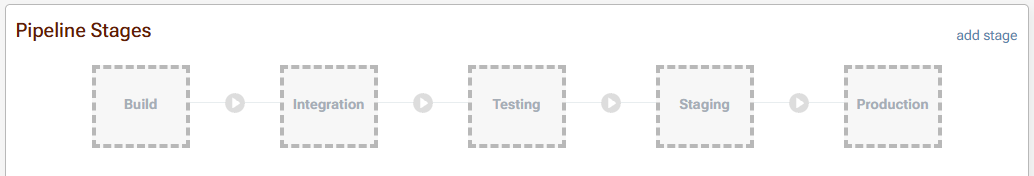
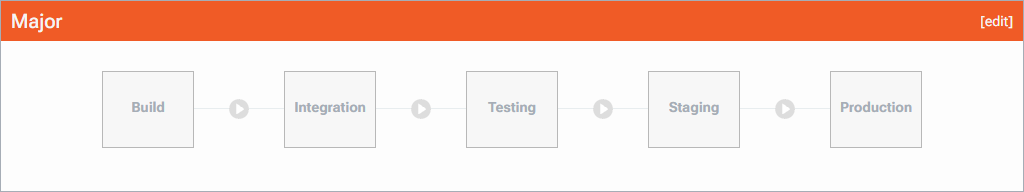
edits made to steps

diff --git a/Content/BuildMaster/modeling-your-applications/buildmaster-releases/howto-multi-cadence.md b/Content/BuildMaster/modeling-your-applications/buildmaster-releases/howto-multi-cadence.md
@@ -92,6 +92,64 @@ At the Testing stage, we recommend adding a prompt that defines whether to enabl
 
 Navigate to your **<span style="color: #FF5733;">Major Release</span>** pipeline, scroll down to Testing, and select "Add an input prompt or constant" under "Variables & Prompts". 
 
+
+## Step 3: Create a Routine Release Pipeline
+In this next step we will create a pipeline that will be used for your **<span style="color: #4CAF50;">Routine Releases</span>**. As routine releases carry low risk and ship on a fixed cadence, their pipelines typically include fewer stages, fewer checks, and a handful of date prompts. Because the cadence is fixed, builds can also have their promotions scheduled to land on the release date.
+
+### Creating The Pipeline
+We recommend keeping **<span style="color: #4CAF50;">Routine Releases</span>** pipelines short: Build, Integration, Testing, and Production. Fewer stages means small changes reach production quickly without waiting on unnecessary checks.
+
+As with creating a Major release pipeline, start by navigating to "Settings" > "Pipelines" then select "Create Pipeline". Then select "Show all" and choose "Main/Release Branch". By default this will already include all stages recommended for routine releases. Select "Create Pipeline".
+
+![](/resources/docs/buildmaster-pipeline-fourstages.png){height="" width="50%"}
+
+### Setting Target Iteration Dates
+To keep routine releases predictable, you can set Target Iteration Dates on a pipeline to define when its releases are meant to go out, setting a fixed cadence for your routine releases (e.g., every two weeks on a Friday). BuildMaster then projects upcoming release dates for you.
+
+To set these up, navigate to your Routine pipeline and then select "edit details" under "Pipeline Details". From here set the target iteration dates (e.g., "7" would set a one week cadence for routine releases):
+
+![](/resources/docs/buildmaster-release-edit-iteration.png){height="" width="50%"}
+
+Once set, BuildMaster automatically projects the upcoming target dates for that pipeline and shows them on the calendar as dotted outlines.
+
+![](/resources/docs/buildmaster-calendar-auto-dates.png){height="" width="50%"}
+
+### Setting Date Prompts
+Routine releases need only a light touch here. We recommend a couple of short prompts, such as a code cutoff 4 days before the target date and a short QA window 3 days before.
+
+To set these up, navigate to your Routine release pipeline, select "Edit Details" under "Pipeline Details", and then select "Manage Date Prompts".
+
+![](/resources/docs/buildmaster-pipeline-manageprompts-2.png){height="" width="50%"}
+
+Then select "Add Date Prompt". Name the date (e.g., "Code Cutoff"), enter how many days before the release target date it will be scheduled as a negative number (e.g., `-3`), and select "Save". Repeat for the QA window, setting it 3 days before with a duration of 2 days.
+
+![](/resources/docs/buildmaster-pipeline-routine-prompts.png){height="" width="50%"}
+
+These will then be pre-populated each time you create a new Routine release.
+
+## Step 4: Configure the Routine Release Pipeline Gating
+Because **<span style="color: #4CAF50;">Routine Releases</span>** ship frequently and carry low risk, their gating should enforce quality without slowing anyone down. We recommend relying on automated gates rather than manual approvals, and adding variable prompts to make quick, repeatable testing easier. This step will cover both.
+
+### Setting Up Automated Gating
+Because routine releases ship frequently, we recommend relying on automated gates rather than manual approvals. Use the same compliance and prerelease dependency checks as the Major pipeline.
+
+To configure these, navigate to your **<span style="color: #4CAF50;">Routine Release</span>** pipeline, scroll down to the Build stage and select "add stage requirement".
+
+![](/resources/docs/buildmaster-pipelines-build-req-add.png){height="" width="50%"}
+
+From here, select "Edit Packages/Dependencies", check both checkboxes and select "Save". This will prevent builds containing packages that break compliance rules or unstable (prerelease) dependencies from moving forward.
+
+![](/resources/docs/buildmaster-pipelines-build-req-added.png){height="" width="50%"}
+
+Finally, make sure you scroll up to the top of the pipeline page and select "Commit Changes".
+
+Unlike the Major pipeline, we haven't added any manual approvals here. Builds that meet these requirements are free to move forward, which keeps your fixed-cadence releases on schedule.
+
+### Creating Variable Prompts
+Variable Prompts can make quick, repeatable testing easier. For example, a prompt at the Testing stage can let the tester choose whether to enable new features after deployment, so the same build can be checked with a feature off and then on without needing a separate build. 
+
+At the Testing stage, we recommend adding a prompt that defines whether to enable new features after deployment, so one build can be tested with a feature off and then on. In addition we'll add a prompt to define whether or not to restart services after deployment.
+
 ![](/resources/docs/buildmaster-pipelines-prompt-add.png){height="" width="50%"}
 
 Then select "Prompt for Input" and name it "Enable New Features After Deployment". This prompt will be set up as a list to create "true" or "false" choices, so select the "Input Options" tab, select the "List" option, as well as selecting "Value is Required" and "Restrict value to items in list". Then enter "true" and "false" as list options.
@@ -109,49 +167,6 @@ Repeat this to create a prompt to define whether or not to restart services afte
 ![](/resources/docs/buildmaster-pipeline-prompts-added.png){height="" width="50%"}
 
 Then, scroll to the top of the pipeline page and select "Commit Changes".
-
-## Step 3: Create a Routine Release Pipeline
-In this next step we will create a pipeline that will be used for your **<span style="color: #4CAF50;">Routine Releases</span>**. As routine releases carry low risk and ship on a fixed cadence, their pipelines typically include fewer stages, fewer checks, and a handful of date prompts. Because the cadence is fixed, builds can also have their promotions scheduled to land on the release date.
-
-### Creating The Pipeline
-We recommend keeping <span style="color: #4CAF50;">Routine Releases</span> pipelines short: Build, Integration, Testing, and Production. Fewer stages means small changes reach production quickly without waiting on unnecessary checks.
-
-As with creating a Major release pipeline, start by navigating to "Settings" > "Pipelines" then select "Create Pipeline". Then select "Show all" and choose "Main/Release Branch". By default this will already include all stages recommended for routine releases. Select "Create Pipeline".
-
-![](){height="" width="50%"} **NEED SS 
-
-### Setting Target iteration Dates
-To keep routine releases predictable, you can set Target Iteration Dates on a pipeline to define when its releases are meant to go out, setting a fixed cadence for your routine releases (e.g., every two weeks on a Friday). BuildMaster then projects upcoming release dates for you.
-
-To set these up, navigate to your Routine pipeline and then select "edit details" under "Pipeline Details". From here set the target iteration dates (e.g., "14" would set a two week cadence for routine releases):
-
-![](/resources/docs/buildmaster-release-edit-iteration.png){height="" width="50%"}
-
-Once set, BuildMaster automatically projects the upcoming target dates for that pipeline and shows them on the calendar as dotted outlines.
-
-![](/resources/docs/buildmaster-calendar-auto-dates.png){height="" width="50%"}
-
-### Setting Date Prompts
-Routine releases need only a light touch here. We recommend a couple of short prompts, such as a code cutoff 2 days before the target date and a short QA window 1 day before.
-
-To set these up, navigate to your Routine release pipeline, select "Edit Details" under "Pipeline Details", and then select "Manage Date Prompts".
-
-![](/resources/docs/buildmaster-calendar-manage-date-prompts.png){height="" width="50%"}
-
-Then select "Add Date Prompt". Name the date (e.g., "Code Cutoff"), enter how many days before the release target date it will be scheduled as a negative number (e.g., `-2`), and set the duration. Repeat for the QA window.
-
-![](/resources/docs/buildmaster-calendar-add-date-prompt.png){height="" width="50%"}
-
-These will then be pre-populated each time you create a new Routine release.
-
-## Step 4: Configure the Routine Release Pipeline Gating
-Because **<span style="color: #4CAF50;">Routine Releases</span>** ship frequently and carry low risk, their gating should enforce quality without slowing anyone down. We recommend relying on automated gates rather than manual approvals, and adding variable prompts to make quick, repeatable testing easier. This step will cover both.
-
-### Setting Up Automated Gating
-Because routine releases ship frequently, we recommend relying on automated gates rather than manual approvals. Use the same compliance and prerelease dependency checks as the Major pipeline, plus a "tests passed" requirement, so quality is enforced automatically and nobody becomes a bottleneck. Here's how to add them
-
-### Creating Variable Prompts
-Variable Prompts can make quick, repeatable testing easier. For example, a prompt at the Testing stage can let the tester choose whether to enable new features after deployment, so the same build can be checked with a feature off and then on without needing a separate build. Here's how to add one.
 
 ## Step 5: Create a release in each pipeline
 With both pipelines in place, we will now create a release in each one to see how the two tracks differ in practice. First we will create a Major release and set its target date. The date prompts you defined (such as feature complete, code freeze, and UAT) will pre-populate automatically, giving the release a long run-up with several milestones. Then we will create a Routine release, which will pre-populate with just a code cutoff and a short QA window. Putting the two side by side shows how much more planning a Major release involves compared with a Routine one. It also gives us something to look at in the next step, where we will view both tracks on the calendar.
